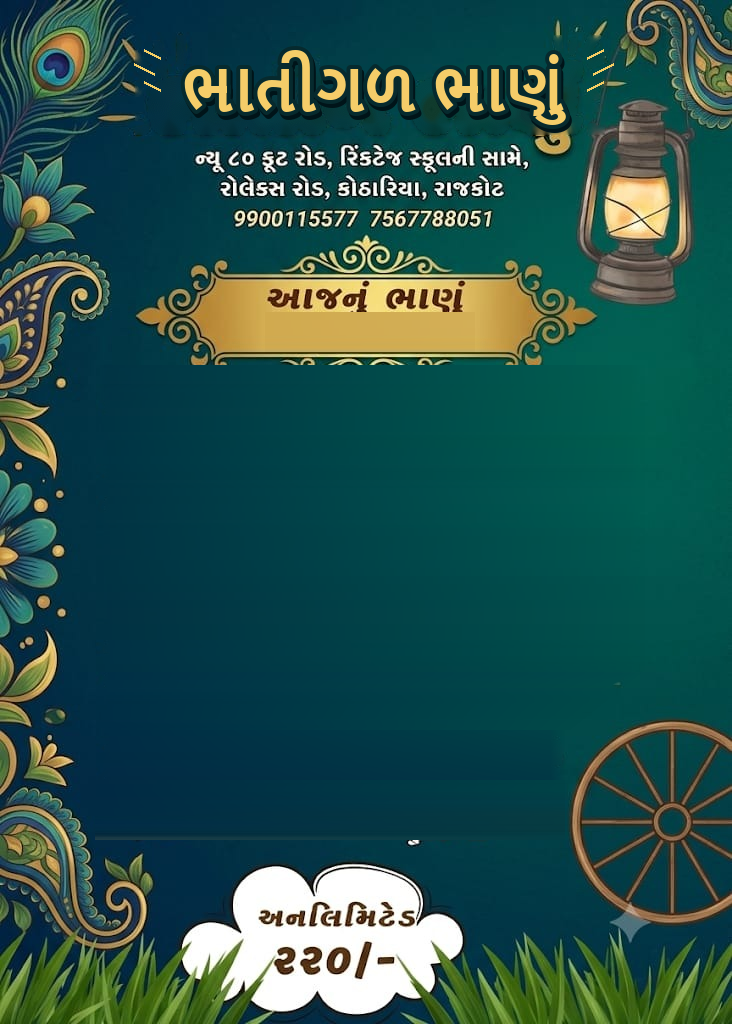
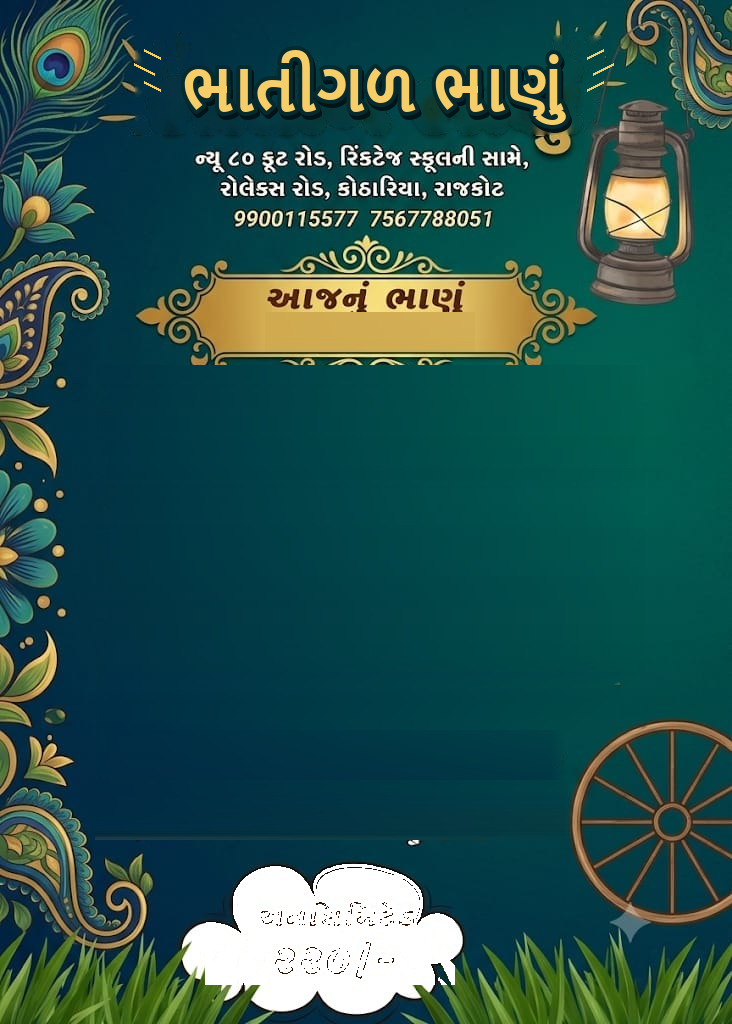
fix(poster & ui): seamless native price badge without rectangular strip, remove verbose explanatory text across UI

Changed region(s): [[0.2705, 0.8438, 0.6311, 0.9688], [0.541, 0.9375, 0.571, 0.9688]]

diff --git a/Restourant-main/admin/src/modules/daily-menu/DailyMenuPage.tsx b/Restourant-main/admin/src/modules/daily-menu/DailyMenuPage.tsx
@@ -651,16 +651,10 @@ export const DailyMenuPage: React.FC = () => {
         <div className="card-body p-4">
           <div className="d-flex flex-wrap justify-content-between align-items-center gap-3">
             <div>
-              <div className="d-flex align-items-center gap-2 mb-1">
+              <div className="d-flex align-items-center gap-2">
                 <Calendar className="text-primary" size={24} />
                 <h4 className="fw-bold mb-0 text-dark">Daily Menu Scheduler</h4>
-                <span className="badge bg-primary-subtle text-primary border border-primary-subtle">
-                  Day-Wise Catalog
-                </span>
               </div>
-              <p className="text-muted small mb-0">
-                Configure day-wise food availability for Lunch and Dinner.
-              </p>
             </div>
 
             {/* Refresh Button */}
@@ -764,10 +758,6 @@ export const DailyMenuPage: React.FC = () => {
               </button>
             </div>
           </div>
-
-          <div className="text-muted small">
-            હાલમાં <strong className="text-dark">{selectedDay}</strong> માટે <strong className="text-primary">{selectedMealPeriod === 'LUNCH' ? 'બપોર (Lunch)' : 'સાંજ (Dinner)'}</strong> નું મેનુ ખુલ્લું છે
-          </div>
         </div>
       </div>
 
@@ -793,9 +783,6 @@ export const DailyMenuPage: React.FC = () => {
                   <h6 className="fw-bold mb-0 text-dark">
                     {selectedMealPeriod === 'LUNCH' ? 'મેનુ કેટાલોગ - બપોર (Lunch Catalog)' : 'મેનુ કેટાલોગ - સાંજ (Dinner Catalog)'}
                   </h6>
-                  <span className="text-muted small">
-                    વાનગી પસંદ કરીને {selectedDay} ના {selectedMealPeriod === 'LUNCH' ? 'બપોરના' : 'સાંજના'} મેનુમાં ઉમેરો
-                  </span>
                 </div>
                 {/* Search Bar */}
                 <div className="input-group input-group-sm" style={{ maxWidth: 240 }}>
@@ -838,22 +825,19 @@ export const DailyMenuPage: React.FC = () => {
 
               {/* Category Quick Actions */}
               {selectedCategoryId !== 'ALL' && (
-                <div className="d-flex justify-content-between align-items-center mt-2 pt-2 border-top">
-                  <span className="text-muted small">Category Quick Action:</span>
-                  <div className="d-flex gap-2">
-                    <button
-                      className="btn btn-outline-primary btn-xs btn-sm py-0 px-2"
-                      onClick={() => handleAddCategoryItems(selectedCategoryId)}
-                    >
-                      + Add All in Category
-                    </button>
-                    <button
-                      className="btn btn-outline-danger btn-xs btn-sm py-0 px-2"
-                      onClick={() => requestRemoveCategoryItems(selectedCategoryId)}
-                    >
-                      - Remove All in Category
-                    </button>
-                  </div>
+                <div className="d-flex justify-content-end align-items-center mt-2 pt-2 border-top gap-2">
+                  <button
+                    className="btn btn-outline-primary btn-xs btn-sm py-0 px-2"
+                    onClick={() => handleAddCategoryItems(selectedCategoryId)}
+                  >
+                    + Add All
+                  </button>
+                  <button
+                    className="btn btn-outline-danger btn-xs btn-sm py-0 px-2"
+                    onClick={() => requestRemoveCategoryItems(selectedCategoryId)}
+                  >
+                    - Remove All
+                  </button>
                 </div>
               )}
             </div>
@@ -932,9 +916,6 @@ export const DailyMenuPage: React.FC = () => {
                 <h6 className="fw-bold mb-0 text-dark">
                   {selectedDay} - {selectedMealPeriod === 'LUNCH' ? 'બપોરનું મેનુ (Lunch)' : 'સાંજનું મેનુ (Dinner)'} ({activeItemIds.length})
                 </h6>
-                <span className="text-muted small">
-                  {selectedDay === systemToday ? 'Active Today' : 'Scheduled for service'}
-                </span>
               </div>
 
               <div className="d-flex gap-1">
@@ -1144,10 +1125,7 @@ export const DailyMenuPage: React.FC = () => {
                 <button type="button" className="btn-close ms-auto" onClick={() => setPendingRemoval(null)} aria-label="Close" />
               </div>
               <div className="modal-body p-3 p-sm-4">
-                <p className="mb-2">{removalDescription}</p>
-                <div className="alert alert-warning small mb-0">
-                  This change is pending. Click <strong>Save {selectedDay} Menu</strong> afterwards to permanently save.
-                </div>
+                <p className="mb-0">{removalDescription}</p>
               </div>
               <div className="modal-footer bg-light p-3">
                 <button type="button" className="btn btn-outline-secondary btn-sm" onClick={() => setPendingRemoval(null)}>Cancel</button>
@@ -1265,9 +1243,6 @@ export const DailyMenuPage: React.FC = () => {
             <div className="d-flex align-items-center gap-2">
               <ImageIcon className="text-success" size={22} />
               <h6 className="fw-bold mb-0 text-dark">Automatic Poster Generator</h6>
-              <span className="badge bg-success-subtle text-success border border-success-subtle">
-                Uses Saved Menu
-              </span>
             </div>
             <button
               className="btn btn-sm btn-outline-secondary p-1 ms-auto"
@@ -1283,11 +1258,6 @@ export const DailyMenuPage: React.FC = () => {
               {/* LEFT: Controls */}
               <div className="col-12 col-lg-5">
                 <div className="d-flex flex-column gap-3">
-                  {isDirty && (
-                    <div className="alert alert-warning py-2 px-3 small mb-0">
-                      Save the {selectedDay} menu first. Poster Preview always uses the final saved menu.
-                    </div>
-                  )}
                   {/* Poster Meal Period Selector */}
                   <div>
                     <label className="form-label small fw-bold mb-1">પોસ્ટર સમય (Meal Timing):</label>
@@ -1346,19 +1316,16 @@ export const DailyMenuPage: React.FC = () => {
                             setPosterDataUrl(null);
                           }}
                         >
-                          <div className="d-flex align-items-center gap-1">
-                            <span style={{ fontSize: '1rem' }}>👑</span>
-                            <span style={{ fontSize: '0.82rem' }}>રોયલ મરૂન</span>
-                          </div>
-                          <div className="small text-muted" style={{ fontSize: '0.68rem' }}>
-                            હાથી & ગણેશજી થીમ
+                          <div className="d-flex align-items-center justify-content-center gap-1.5 py-1">
+                            <span style={{ fontSize: '1.05rem' }}>👑</span>
+                            <span className="fw-semibold" style={{ fontSize: '0.85rem' }}>રોયલ મરૂન</span>
                           </div>
                         </button>
                       </div>
                       <div className="col-6">
                         <button
                           type="button"
-                          className={`btn btn-sm w-100 p-2 text-start rounded-3 border transition-all ${
+                          className={`btn btn-sm w-100 p-2 text-center rounded-3 border transition-all ${
                             posterTheme === 'peacock_green'
                               ? 'border-2 border-success bg-success-subtle text-dark fw-bold shadow-xs'
                               : 'bg-white border text-muted hover-bg-light'
@@ -1368,12 +1335,9 @@ export const DailyMenuPage: React.FC = () => {
                             setPosterDataUrl(null);
                           }}
                         >
-                          <div className="d-flex align-items-center gap-1">
-                            <span style={{ fontSize: '1rem' }}>🦚</span>
-                            <span style={{ fontSize: '0.82rem' }}>મોરપીંછ લીલું</span>
-                          </div>
-                          <div className="small text-muted" style={{ fontSize: '0.68rem' }}>
-                            લાલટેન & પૈડું થીમ
+                          <div className="d-flex align-items-center justify-content-center gap-1.5 py-1">
+                            <span style={{ fontSize: '1.05rem' }}>🦚</span>
+                            <span className="fw-semibold" style={{ fontSize: '0.85rem' }}>મોરપીંછ લીલું</span>
                           </div>
                         </button>
                       </div>
@@ -1400,17 +1364,6 @@ export const DailyMenuPage: React.FC = () => {
                         value={posterCustomDate}
                         onChange={e => setPosterCustomDate(e.target.value)}
                       />
-                    </div>
-                  </div>
-
-                  <div className="rounded-3 border bg-primary-subtle p-3">
-                    <div className="fw-bold small text-primary">
-                      {posterTheme === 'peacock_green' ? '🦚 મોરપીંછ લીલું થીમ (Peacock Green)' : '👑 રોયલ મરૂન થીમ (Royal Maroon)'}
-                    </div>
-                    <div className="text-muted small mt-1">
-                      {posterTheme === 'peacock_green'
-                        ? 'મોરપીંછ લીલું બેકડ્રોપ, લાલટેન અને પૈડું વાળી કાઠિયાવાડી ડિઝાઇન. કેટેગરી મુજબ વાનગીઓ અને ₹250 ભાવ આપમેળે લખાઈ જશે.'
-                        : 'રોયલ મરૂન બેકડ્રોપ, ગોલ્ડન રિબન, હાથી & ગણેશજી વાળી ડિઝાઇન. કેટેગરી મુજબ વાનગીઓ અને ₹250 ભાવ આપમેળે લખાઈ જશે.'}
                     </div>
                   </div>
 

diff --git a/Restourant-main/admin/src/modules/masters/MastersPage.tsx b/Restourant-main/admin/src/modules/masters/MastersPage.tsx
@@ -183,11 +183,10 @@ export const MastersPage: React.FC = () => {
       {/* Header */}
       <div className="d-flex flex-wrap justify-content-between align-items-center gap-3">
         <div>
-          <div className="d-flex align-items-center gap-2 mb-1">
+          <div className="d-flex align-items-center gap-2">
             <UtensilsCrossed size={22} className="text-primary" />
             <h4 className="fw-bold mb-0 text-dark">Menu Bar</h4>
           </div>
-          <p className="text-muted small mb-0">Create, organise and manage restaurant categories and food items.</p>
         </div>
         {can('masters.menu.create') && (
           <div className="d-flex gap-2">
@@ -236,10 +235,6 @@ export const MastersPage: React.FC = () => {
                 </span>
               </button>
             </div>
-          </div>
-
-          <div className="text-muted small">
-            હાલમાં <strong className="text-dark">{mealTimingFilter === 'LUNCH' ? 'બપોર (Lunch)' : 'સાંજ (Dinner)'}</strong> નું મેનુ દર્શાવેલ છે
           </div>
         </div>
       </div>
@@ -593,11 +588,6 @@ const ItemForm: React.FC<{
           >
             સાંજ (Dinner)
           </button>
-        </div>
-        <div className="small text-muted mt-2">
-          {currentTiming === 'LUNCH'
-            ? 'આ વાનગી બપોરના મેનુ માટે ઉમેરાશે અને ફક્ત બપોરની કેટેગરીમાં દેખાશે.'
-            : 'આ વાનગી સાંજના મેનુ માટે ઉમેરાશે અને ફક્ત સાંજની કેટેગરીમાં દેખાશે.'}
         </div>
       </div>
 

diff --git a/Restourant-main/backend/app/services/poster_service.py b/Restourant-main/backend/app/services/poster_service.py
@@ -271,26 +271,39 @@ class PosterService:
             if col2_cats:
                 draw_category_col(col2_cats, x_col2)
 
-        # 7. Price badge (ALWAYS DRAW WITH REQUESTED PRICE, default 250)
+        # 7. Price badge (Default 250, seamless native cloud & seal design)
         if is_green:
-            font_p = PosterService.get_font(28, bold=True)
-            draw.rounded_rectangle([296, 915, 436, 965], radius=8, fill=(255, 255, 255))
-            p_txt = f"{to_gujarati_digits(price)}/-"
-            p_bbox = draw.textbbox((0, 0), p_txt, font=font_p)
-            p_tw = p_bbox[2] - p_bbox[0]
-            draw.text(((296 + 436 - p_tw) // 2, 920), p_txt, font=font_p, fill=(140, 20, 20))
-        else:
-            font_u = PosterService.get_font(21, bold=True)
-            font_p = PosterService.get_font(28, bold=True)
-            draw.rounded_rectangle([325, 845, 460, 932], radius=16, fill=(75, 5, 18))
+            # Seamlessly clear cloud interior
+            draw.rounded_rectangle([218, 862, 438, 974], radius=26, fill=(255, 255, 255))
+            draw.ellipse([212, 876, 286, 958], fill=(255, 255, 255))
+            draw.ellipse([364, 876, 442, 958], fill=(255, 255, 255))
+
+            font_u = PosterService.get_font(23, bold=True)
+            font_p = PosterService.get_font(35, bold=True)
             u_txt = "અનલિમિટેડ"
             p_txt = f"{to_gujarati_digits(price)}/-"
             u_bbox = draw.textbbox((0, 0), u_txt, font=font_u)
             p_bbox = draw.textbbox((0, 0), p_txt, font=font_p)
             u_tw = u_bbox[2] - u_bbox[0]
             p_tw = p_bbox[2] - p_bbox[0]
-            draw.text(((325 + 460 - u_tw) // 2, 852), u_txt, font=font_u, fill=(255, 255, 255))
-            draw.text(((325 + 460 - p_tw) // 2, 888), p_txt, font=font_p, fill=(255, 215, 0))
+            cloud_cx = 328
+            draw.text((cloud_cx - u_tw // 2, 874), u_txt, font=font_u, fill=(35, 45, 55))
+            draw.text((cloud_cx - p_tw // 2, 914), p_txt, font=font_p, fill=(175, 25, 25))
+        else:
+            maroon_seal_bg = (87, 17, 32)
+            draw.ellipse([392 - 64, 894 - 44, 392 + 64, 894 + 44], fill=maroon_seal_bg)
+
+            font_u = PosterService.get_font(21, bold=True)
+            font_p = PosterService.get_font(32, bold=True)
+            u_txt = "અનલિમિટેડ"
+            p_txt = f"{to_gujarati_digits(price)}/-"
+            u_bbox = draw.textbbox((0, 0), u_txt, font=font_u)
+            p_bbox = draw.textbbox((0, 0), p_txt, font=font_p)
+            u_tw = u_bbox[2] - u_bbox[0]
+            p_tw = p_bbox[2] - p_bbox[0]
+            maroon_cx = 392
+            draw.text((maroon_cx - u_tw // 2, 856), u_txt, font=font_u, fill=(255, 255, 255))
+            draw.text((maroon_cx - p_tw // 2, 894), p_txt, font=font_p, fill=(255, 215, 0))
 
         # Return BytesIO stream
         buf = BytesIO()
